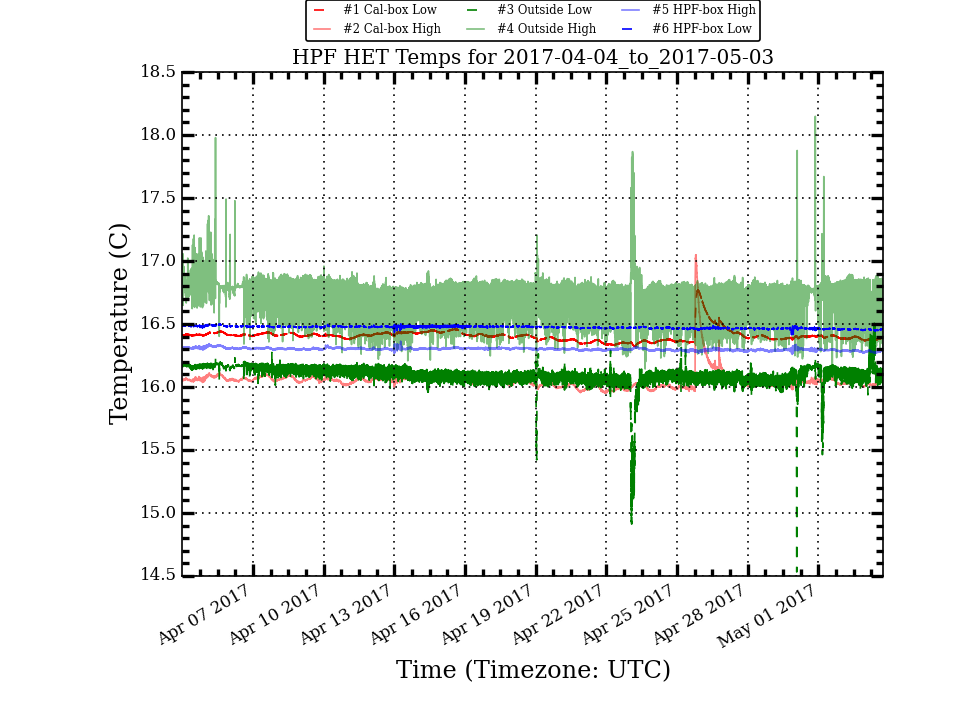
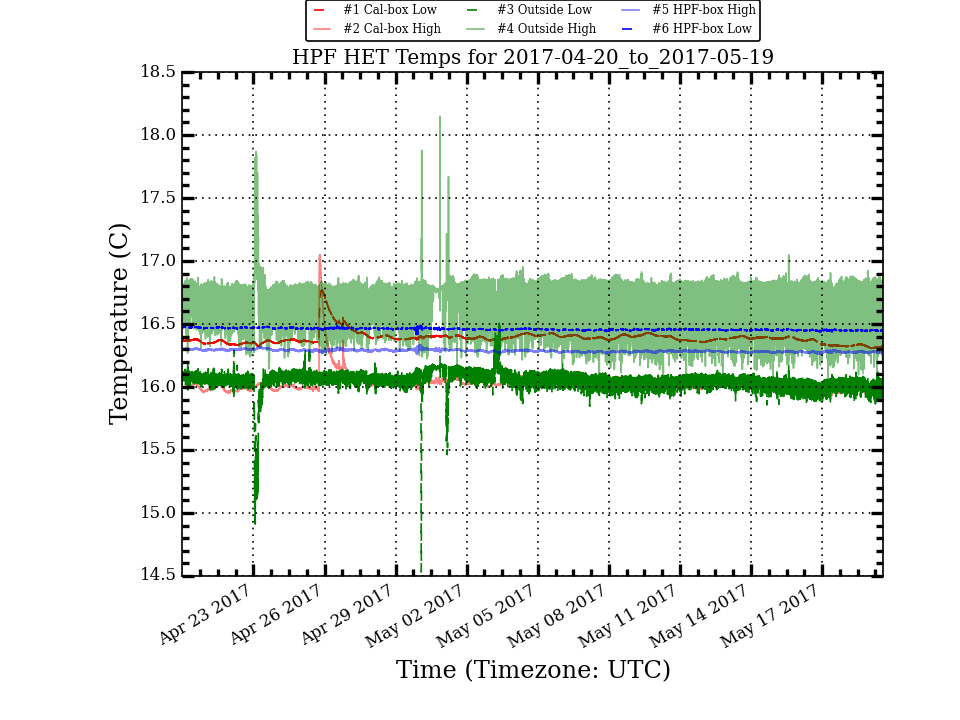
Update HPF Temp Plots

diff --git a/research/hpf_temps/plots/LakeShoreLogTotal_week_stats.html b/research/hpf_temps/plots/LakeShoreLogTotal_week_stats.html
@@ -10,56 +10,56 @@
  </TR>
  <TR>
   <TD>Cal_Low</TD>
-  <TD>16.397</TD>
-  <TD>0.019</TD>
-  <TD>16.394</TD>
-  <TD>16.479</TD>
-  <TD>16.369</TD>
-  <TD>0.110</TD>
+  <TD>16.362</TD>
+  <TD>0.031</TD>
+  <TD>16.374</TD>
+  <TD>16.406</TD>
+  <TD>16.307</TD>
+  <TD>0.099</TD>
  </TR>
  <TR>
   <TD>Cal_High</TD>
-  <TD>16.042</TD>
-  <TD>0.022</TD>
-  <TD>16.040</TD>
-  <TD>16.119</TD>
-  <TD>15.979</TD>
-  <TD>0.140</TD>
+  <TD>16.003</TD>
+  <TD>0.036</TD>
+  <TD>16.013</TD>
+  <TD>16.068</TD>
+  <TD>15.932</TD>
+  <TD>0.136</TD>
  </TR>
  <TR>
   <TD>Out_Low</TD>
-  <TD>16.093</TD>
-  <TD>0.097</TD>
-  <TD>16.095</TD>
-  <TD>16.506</TD>
-  <TD>14.532</TD>
-  <TD>1.974</TD>
+  <TD>16.024</TD>
+  <TD>0.039</TD>
+  <TD>16.029</TD>
+  <TD>16.192</TD>
+  <TD>15.849</TD>
+  <TD>0.343</TD>
  </TR>
  <TR>
   <TD>Out_High</TD>
-  <TD>16.732</TD>
-  <TD>0.116</TD>
-  <TD>16.763</TD>
-  <TD>18.148</TD>
-  <TD>16.128</TD>
-  <TD>2.020</TD>
+  <TD>16.684</TD>
+  <TD>0.150</TD>
+  <TD>16.725</TD>
+  <TD>17.048</TD>
+  <TD>15.983</TD>
+  <TD>1.065</TD>
  </TR>
  <TR>
   <TD>HPF_High</TD>
-  <TD>16.291</TD>
-  <TD>0.008</TD>
-  <TD>16.291</TD>
-  <TD>16.338</TD>
-  <TD>16.259</TD>
-  <TD>0.079</TD>
+  <TD>16.279</TD>
+  <TD>0.004</TD>
+  <TD>16.278</TD>
+  <TD>16.297</TD>
+  <TD>16.260</TD>
+  <TD>0.037</TD>
  </TR>
  <TR>
   <TD>HPF_Low</TD>
-  <TD>16.462</TD>
-  <TD>0.006</TD>
-  <TD>16.462</TD>
-  <TD>16.491</TD>
-  <TD>16.414</TD>
-  <TD>0.077</TD>
+  <TD>16.451</TD>
+  <TD>0.003</TD>
+  <TD>16.451</TD>
+  <TD>16.465</TD>
+  <TD>16.436</TD>
+  <TD>0.029</TD>
  </TR>
 </TABLE>

diff --git a/research/hpf_temps/plots/LakeShoreLogTotal_month_stats.html b/research/hpf_temps/plots/LakeShoreLogTotal_month_stats.html
@@ -10,56 +10,56 @@
  </TR>
  <TR>
   <TD>Cal_Low</TD>
-  <TD>16.407</TD>
-  <TD>0.050</TD>
-  <TD>16.405</TD>
+  <TD>16.389</TD>
+  <TD>0.053</TD>
+  <TD>16.385</TD>
   <TD>16.769</TD>
-  <TD>16.322</TD>
-  <TD>0.447</TD>
+  <TD>16.307</TD>
+  <TD>0.462</TD>
  </TR>
  <TR>
   <TD>Cal_High</TD>
-  <TD>16.053</TD>
-  <TD>0.081</TD>
-  <TD>16.049</TD>
+  <TD>16.035</TD>
+  <TD>0.084</TD>
+  <TD>16.027</TD>
   <TD>17.049</TD>
-  <TD>15.953</TD>
-  <TD>1.096</TD>
+  <TD>15.932</TD>
+  <TD>1.117</TD>
  </TR>
  <TR>
   <TD>Out_Low</TD>
-  <TD>16.098</TD>
-  <TD>0.089</TD>
-  <TD>16.102</TD>
+  <TD>16.055</TD>
+  <TD>0.086</TD>
+  <TD>16.060</TD>
   <TD>16.506</TD>
   <TD>14.532</TD>
   <TD>1.974</TD>
  </TR>
  <TR>
   <TD>Out_High</TD>
-  <TD>16.733</TD>
-  <TD>0.116</TD>
-  <TD>16.758</TD>
+  <TD>16.712</TD>
+  <TD>0.135</TD>
+  <TD>16.746</TD>
   <TD>18.148</TD>
-  <TD>15.990</TD>
-  <TD>2.158</TD>
+  <TD>15.983</TD>
+  <TD>2.165</TD>
  </TR>
  <TR>
   <TD>HPF_High</TD>
-  <TD>16.301</TD>
-  <TD>0.010</TD>
-  <TD>16.301</TD>
-  <TD>16.364</TD>
+  <TD>16.287</TD>
+  <TD>0.009</TD>
+  <TD>16.286</TD>
+  <TD>16.338</TD>
   <TD>16.259</TD>
-  <TD>0.105</TD>
+  <TD>0.079</TD>
  </TR>
  <TR>
   <TD>HPF_Low</TD>
-  <TD>16.473</TD>
-  <TD>0.009</TD>
-  <TD>16.475</TD>
-  <TD>16.516</TD>
+  <TD>16.459</TD>
+  <TD>0.008</TD>
+  <TD>16.458</TD>
+  <TD>16.491</TD>
   <TD>16.414</TD>
-  <TD>0.102</TD>
+  <TD>0.077</TD>
  </TR>
 </TABLE>
